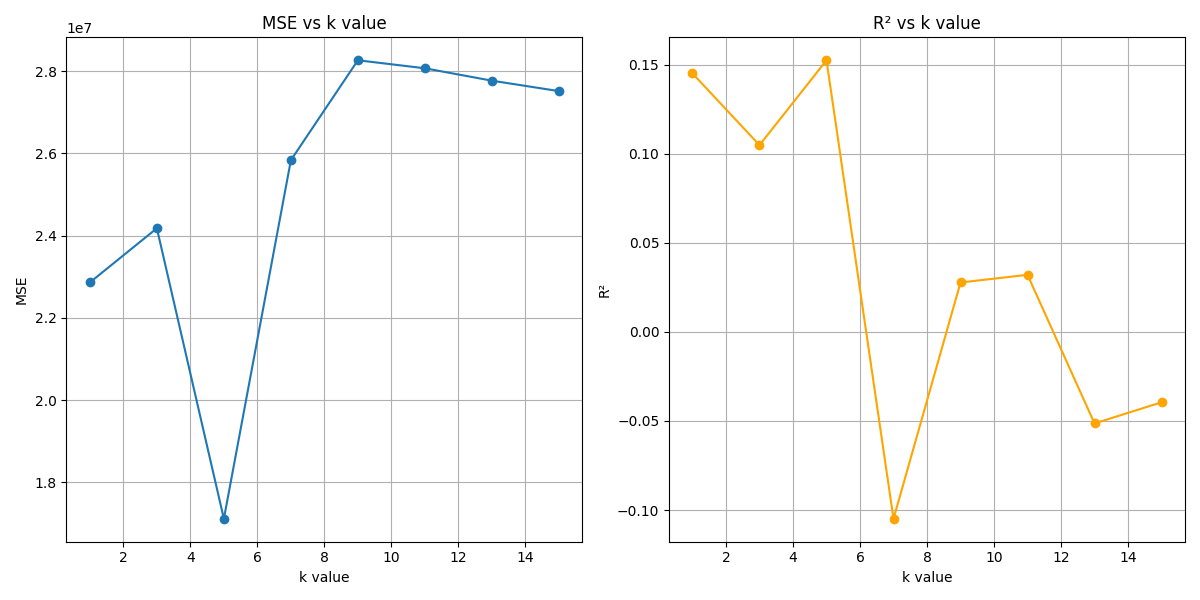
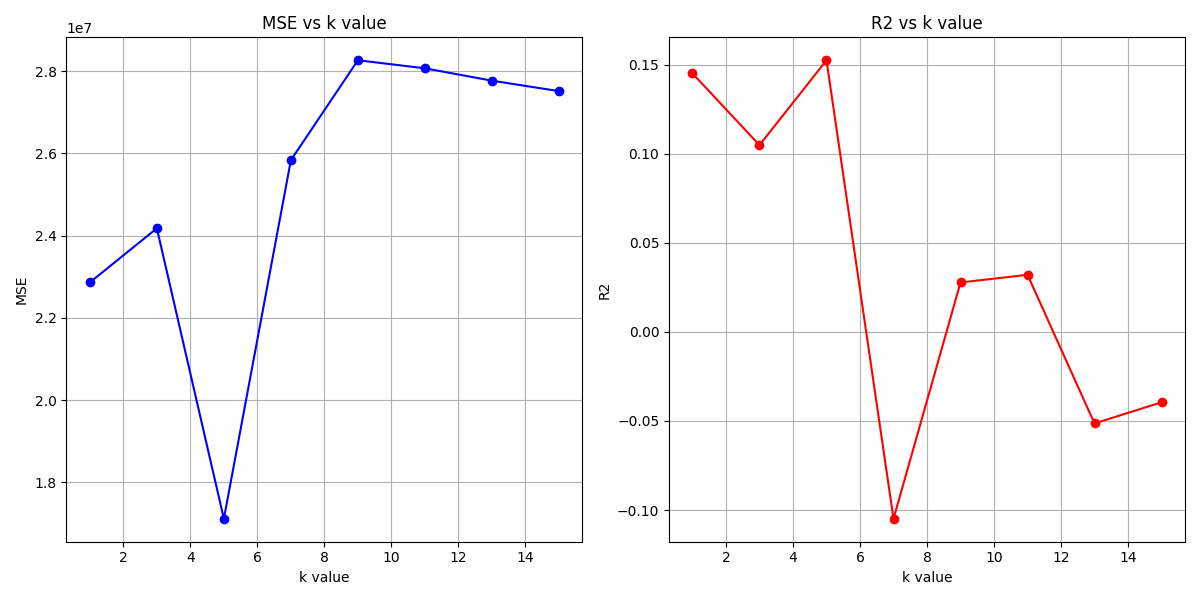
starting decision trees

diff --git a/test_data.py b/test_data.py
@@ -4,6 +4,7 @@ import random
 from math import ceil
 from statistics import mean
 from models.knn import KNNModel
+from models.decision_tree import DecisionTreeModel
 import matplotlib.pyplot as plt
 
 # Finds the MSE. Lower values mean indicate better performance, meaning 
@@ -29,9 +30,9 @@ def r2_score(y_true, y_pred):
     r2 = 1 - (residual_sum_of_squares / total_sum_of_squares)
     return r2
 
-# Runs k-fold validation, default number of chunsks is 5. Expects to be passed a model function
+# Runs k-fold validation, default number of chunks is 5. Expects to be passed a model function
 # that follows the format as model_interface.py
-def kfold_validation(n_folds=5, model_function = None):
+def kfold_validation(n_folds=5, model_function = None, _seed=42):
     df = parse_data.df # Get all the data
     
     # Features we are using to predict
@@ -47,7 +48,7 @@ def kfold_validation(n_folds=5, model_function = None):
 
     # Mix around data before we seperate it into chunks
     data = list(zip(X, y))
-    random.seed(42)
+    random.seed(_seed)
     random.shuffle(data)
 
     # Divide into chunks
@@ -58,11 +59,11 @@ def kfold_validation(n_folds=5, model_function = None):
 
     # For each chunk train the model and validate on R2 and MSE
     for i in range(n_folds):
-        val_data = data[i * fold_size : (i + 1) * fold_size]
-        train_data = data[:i * fold_size] + data[(i + 1) * fold_size:]
+        val_data = data[i * fold_size : (i + 1) * fold_size] # 20% to test on
+        train_data = data[:i * fold_size] + data[(i + 1) * fold_size:] # 80% to train on
 
-        X_train, y_train = zip(*train_data)
-        X_val, y_val = zip(*val_data)
+        X_train, y_train = zip(*train_data) # x and y training variables
+        X_val, y_val = zip(*val_data) # x and y validation variables
 
         # First instantiate the model
         if model_function is None: 
@@ -71,10 +72,9 @@ def kfold_validation(n_folds=5, model_function = None):
         else: 
             model = model_function()
             print(f"Using model with name: {model.__class__.__name__}")
-        model = model_function()
-        model.fit(X_train, y_train) 
-        models.append(model)
-        y_pred = model.predict(X_val)
+        model.fit(X_train, y_train) # Train the model
+        models.append(model) # Add model to list of models
+        y_pred = model.predict(X_val) # Predict values so we can estimate errors
 
         # Calculate MSE
         mse = mean_squared_error(y_val, y_pred)
@@ -101,14 +101,14 @@ def test_knn(upper_limit=15):
         print(f"Training with k={k}")
         models, mse_scores, r2_scores = kfold_validation(model_function=lambda: KNNModel(k=k))
 
-        # Calculate average MSE and R² for the current k
+        # Calculate average MSE and R2 for the current k
         avg_mse = mean(mse_scores)
         mse_scores_per_k.append(avg_mse)
         r2_avg = mean(r2_scores)
         r2_scores_per_k.append(r2_avg)
 
         print(f"Average MSE for k={k}: {avg_mse}")
-        print(f"Average R² for k={k}: {r2_avg}\n")
+        print(f"Average R2 for k={k}: {r2_avg}\n")
 
     k_values = list(range(1, upper_limit+1, 2))
 
@@ -133,10 +133,50 @@ def test_knn(upper_limit=15):
     plt.tight_layout()
     plt.savefig('data/knn/knn_plot.png') 
 
+# Runs tests for decision trees. Will plot points for the average MSE and R2 over 5 models using k-fold validation
+def test_decision_tree(max_depth_limit=15):
+    mse_scores_per_depth = []
+    r2_scores_per_depth = []
 
+    for depth in range(1, max_depth_limit + 1):
+        print(f"Training Decision Tree with max_depth={depth}")
+        models, mse_scores, r2_scores = kfold_validation(_seed=random.randint(-1000000,1000000))
+
+        avg_mse = mean(mse_scores)
+        mse_scores_per_depth.append(avg_mse)
+
+        avg_r2 = mean(r2_scores)
+        r2_scores_per_depth.append(avg_r2)
+
+        print(f"Average MSE for depth={depth}: {avg_mse}")
+        print(f"Average R2 for depth={depth}: {avg_r2}\n")
+
+    depths = list(range(1, max_depth_limit + 1))
+
+    plt.figure(figsize=(12, 6))
+
+    # Plot MSE
+    plt.subplot(1, 2, 1)
+    plt.plot(depths, mse_scores_per_depth, marker='o', label='MSE', color='blue')
+    plt.xlabel('Max Depth')
+    plt.ylabel('MSE')
+    plt.title('MSE vs Max Depth')
+    plt.grid(True)
+
+    # Plot R2
+    plt.subplot(1, 2, 2)
+    plt.plot(depths, r2_scores_per_depth, marker='o', label='R2', color='red')
+    plt.xlabel('Iteration')
+    plt.ylabel('R2')
+    plt.title('R2 over iterations')
+
+    plt.tight_layout()
+    plt.grid(True)
+    plt.savefig('data/decision_tree/decision_tree_plot.png')
 
 # ==============================================
 # ============== Testing the data ==============
 # ==============================================
 
-test_knn(upper_limit=15)
+# test_knn(upper_limit=15)
+test_decision_tree(max_depth_limit=3)

diff --git a/models/decision_tree.py b/models/decision_tree.py
@@ -1,0 +1,126 @@
+from models.model_interface import ModelInterface
+import numpy as np
+
+class DecisionTreeNode:
+    def __init__(self, feature_index=None, threshold=None, left=None, right=None, value=None):
+        self.feature_index = feature_index
+        self.threshold = threshold
+        self.left = left
+        self.right = right
+        self.value = value
+
+class DecisionTreeModel(ModelInterface):
+    def __init__(self):
+        self.root = None
+
+    def fit(self, X, y): # Build the tree
+        # First ensure that our y input does not contain any nested lists
+        temp = []
+        for target in y:
+            if isinstance(target, list): # if the index is a list, add the first item
+                temp.append(target[0])  
+            else:
+                temp.append(target)
+        y = temp
+        self.root = build_tree(X, y)
+
+    def predict(self, X): # Predict what a value will be on the tree for each x 
+        return [traverse_tree(self.root, x) for x in X]
+
+# Calculates entropy of given label
+def entropy(y):
+    # Get the amount each label appears
+    counts = {}
+    for label in y:
+        if label not in counts:
+            counts[label] = 0
+        counts[label] += 1
+
+    # Calculate the entropy for each value in counts
+    total = len(y)
+    entropy = 0.0
+    for count in counts.values():
+        entropy -= (count / total) * np.log2(count / total)
+    return entropy
+
+# Function to compute information gain. Information gain finds out how much entropy 
+# is lost after splitting a specific node
+def information_gain(X, y, feature_index, threshold):
+    # Split the data based on the threshold
+    left_y = [y[i] for i in range(len(X)) if X[i][feature_index] <= threshold]
+    right_y = [y[i] for i in range(len(X)) if X[i][feature_index] > threshold]
+    
+    # Get all entropies. We subtract parent entropy from left and right
+    parent_entropy = entropy(y)
+    left_entropy = entropy(left_y)
+    right_entropy = entropy(right_y)
+    
+    # Find and return the information gain. Information gain formula is
+    # the entropy of the original dataset minus the sum of the weighted entropies of each subset after the split
+    ig = parent_entropy - ((len(left_y) / len(y)) * left_entropy + (len(right_y) / len(y)) * right_entropy)
+    return ig
+
+# We find the best feature to use based on each features information gain
+def find_best_split(X, y):
+    best_ig = -float('inf')
+    best_feature = None
+    best_threshold = None
+
+    # We will loop through each feature and get the information gain for each one
+    # if it is better than the previous one, replace and we use that feature
+    features = len(X[0])
+    for feature in range(features):
+        # We get the value at each feature and test each as a threshold in information_gain
+        feature_values = [x[feature] for x in X]
+        thresholds = sorted(set(feature_values)) 
+        for threshold in thresholds:
+            ig = information_gain(X, y, feature, threshold)
+            if ig > best_ig:
+                best_ig = ig
+                best_feature = feature
+                best_threshold = threshold
+
+    return best_feature, best_threshold
+
+# Recursively builds the decision tree
+def build_tree(X, y):
+    # the length of y will be 1 if we stop getting new values
+    # which means building the the tree more will not improve it
+    if len(set(y)) == 1: return DecisionTreeNode(value=y[0])
+
+    # Find the best feature to split on and its threshold value
+    feature_index, threshold = find_best_split(X, y)
+
+    # If there is no feature then we return a node that is the average of all the remaining features
+    if feature_index is None: return DecisionTreeNode(value=np.mean(y))
+
+    # Split data based on the best threshold
+    left_indices = [i for i in range(len(X)) if X[i][feature_index] <= threshold]
+    right_indices = [i for i in range(len(X)) if X[i][feature_index] > threshold]
+
+    # If one of the sides is empty return the average of the remaining features
+    if not left_indices or not right_indices: return DecisionTreeNode(value=np.mean(y))
+
+    X_left = [X[i] for i in left_indices]
+    y_left = [y[i] for i in left_indices]
+    X_right = [X[i] for i in right_indices]
+    y_right = [y[i] for i in right_indices]
+
+    left_child = build_tree(X_left, y_left)
+    right_child = build_tree(X_right, y_right)
+
+    return DecisionTreeNode(
+        feature_index=feature_index,
+        threshold=threshold,
+        left=left_child,
+        right=right_child
+    )
+
+# Traverse the tree to make a prediction for a given query
+def traverse_tree(node, x):
+    if node.value is not None:
+        return node.value
+    if x[node.feature_index] <= node.threshold:
+        return traverse_tree(node.left, x)
+    else:
+        return traverse_tree(node.right, x)

diff --git a/models/knn.py b/models/knn.py
@@ -20,6 +20,7 @@ class KNNModel(ModelInterface):
             distances = [(euclidean_distance(point, query), label[0]) for point, label in self.data]
             distances.sort()
             k_nearest_labels = [label for _, label in distances[:self.k]]
-            highest = Counter(k_nearest_labels).most_common(1)[0][0]
+            highest = Counter(k_nearest_labels).most_common(1)[0][0] # take the value from the k nearest points
             predictions.append(highest)
         return predictions
+        
